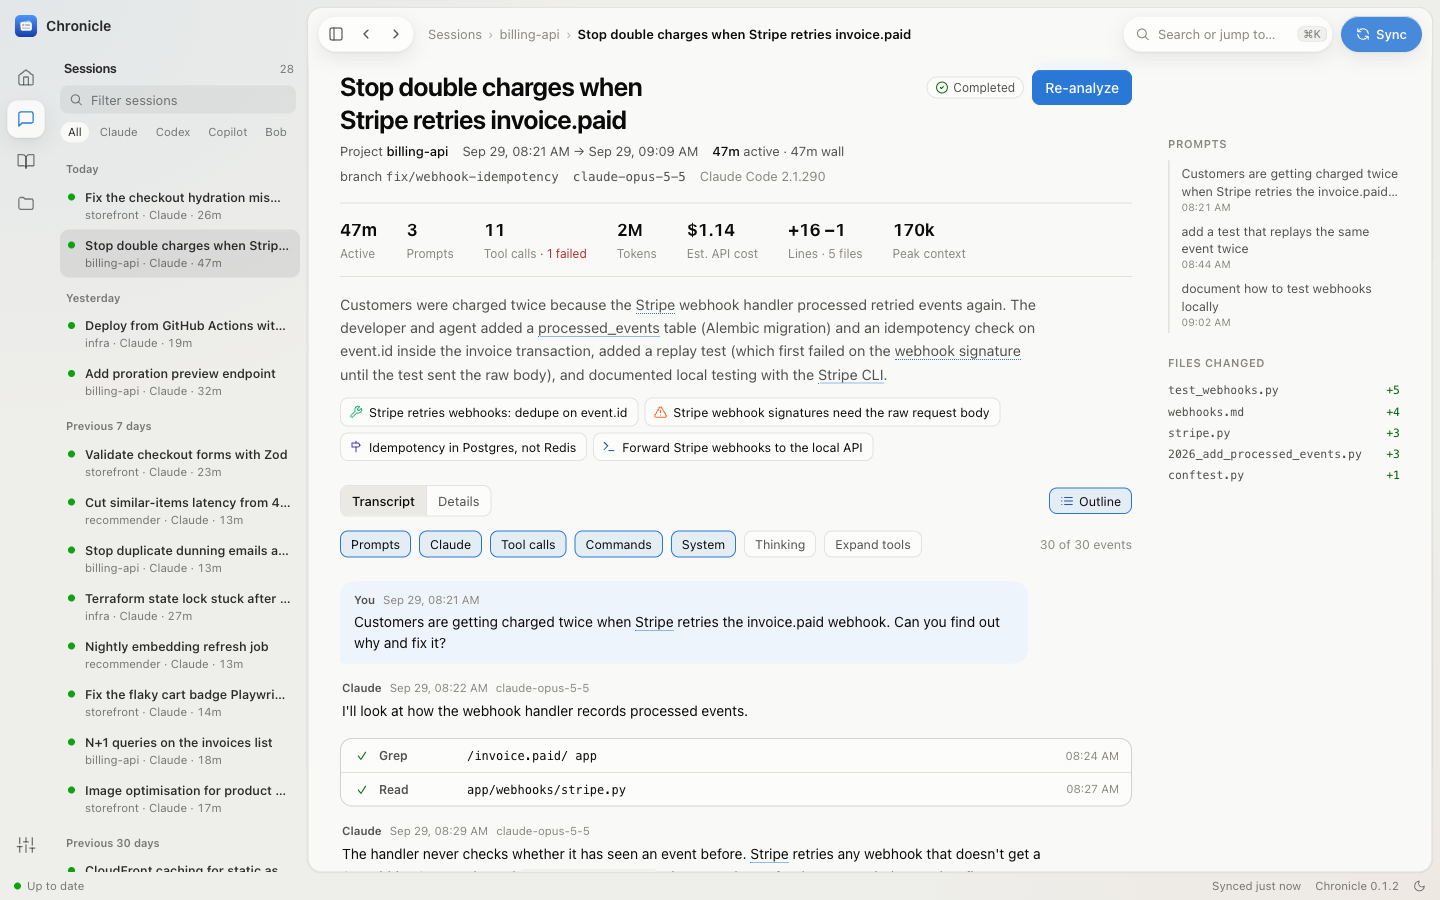
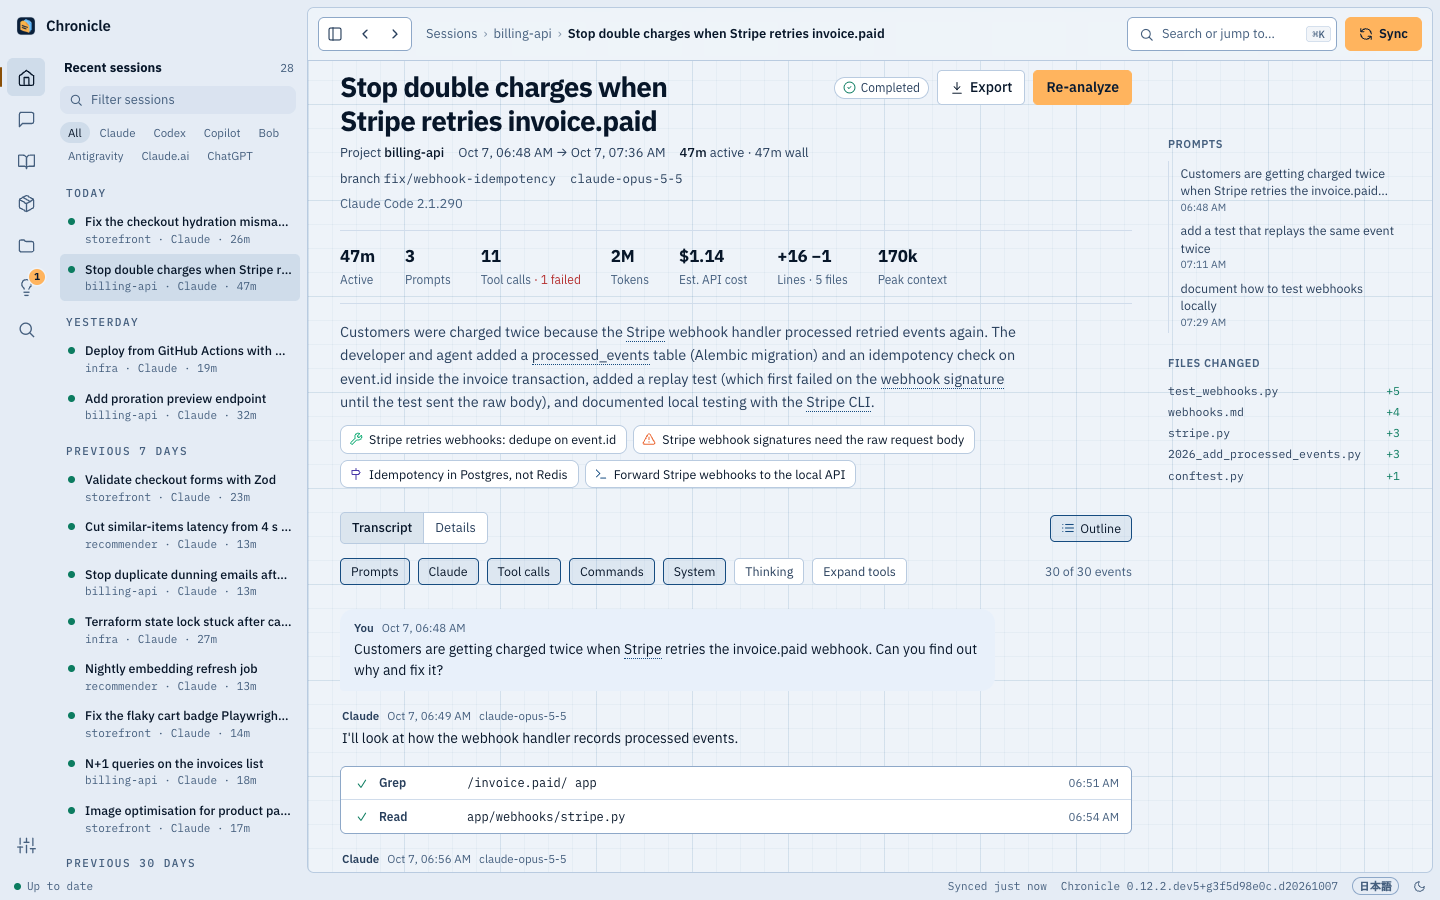
Blueprint UI: validated chart blue, Plex in the Japanese UI, new screenshots
The dark theme's first chart series is #4396e2: #7cc7ff failed the palette
validator's lightness band. Latin text in the Japanese UI uses Plex too. The
docs screenshots are retaken from the demo data in the new style.

diff --git a/src/chronicle/web/app.css b/src/chronicle/web/app.css
@@ -108,7 +108,7 @@
     --user-bubble: #12365f;
     --code-bg: #0a2140;
     --shadow: none;
-    --series-1: #7cc7ff; --series-2: #d95926; --series-3: #199e70; --series-4: #c98500;
+    --series-1: #4396e2; --series-2: #d95926; --series-3: #199e70; --series-4: #c98500;
     --series-5: #d55181; --series-6: #008300; --series-7: #9085e9; --series-8: #e66767;
     --gold: #ffb45e;
     --paper-grid: rgba(93, 134, 182, 0.13);
@@ -152,7 +152,7 @@
   --user-bubble: #12365f;
   --code-bg: #0a2140;
   --shadow: none;
-  --series-1: #7cc7ff; --series-2: #d95926; --series-3: #199e70; --series-4: #c98500;
+  --series-1: #4396e2; --series-2: #d95926; --series-3: #199e70; --series-4: #c98500;
   --series-5: #d55181; --series-6: #008300; --series-7: #9085e9; --series-8: #e66767;
   --gold: #ffb45e;
   --paper-grid: rgba(93, 134, 182, 0.13);
@@ -1699,8 +1699,9 @@ details.menu .menu-list span { color: var(--muted); font-size: 12px; }
 .sg-examples.one-line li { -webkit-line-clamp: 1; }
 .sg-card > .link-btn { justify-self: start; padding-left: 0; }
 
-/* Japanese UI (i18n.js sets <html lang>): fonts with Japanese glyphs first, and line breaks that keep phrases whole */
-:root:lang(ja) { --sans: system-ui, -apple-system, "Hiragino Sans", "Hiragino Kaku Gothic ProN", "Yu Gothic UI", Meiryo, "Segoe UI", sans-serif; }
+/* Japanese UI (i18n.js sets <html lang>): Plex for Latin text as on the site, Japanese glyphs from the system's
+   Japanese fonts, and line breaks that keep phrases whole */
+:root:lang(ja) { --sans: "IBM Plex Sans", "Hiragino Sans", "Hiragino Kaku Gothic ProN", "Yu Gothic UI", Meiryo, system-ui, sans-serif; }
 :lang(ja) body { line-break: strict; word-break: auto-phrase; }
 :lang(ja) .subhead { letter-spacing: 0.02em; }
 /* the language switch beside the theme toggle: a short outlined label (日本語 / EN) */

diff --git a/CHANGELOG.md b/CHANGELOG.md
@@ -1,5 +1,15 @@
 # Changelog
 
+## Unreleased
+
+- **The dashboard in the Chronicle blueprint style:** the app now looks like
+  [chronicle.chatixia.net](https://chronicle.chatixia.net/). The dark theme is navy blueprint paper with a faint grid,
+  the light theme the same drawing as a whiteprint; type is IBM Plex Sans and Plex Mono, with small mono capitals for
+  labels. Gold marks what to press (Sync, Approve) and the current section, teal what is done, blue the links and the
+  data. Panels are flat with thin rules instead of glass, in the browser and in the macOS app, so *Reduce transparency*
+  is gone from **Settings › Appearance**. The fonts ship with Chronicle (Latin subsets, SIL Open Font License), so the
+  dashboard never calls a font service; Japanese text uses the system's Hiragino.
+
 ## 0.12.1 (2026-10-07)
 
 - **IBM Bob analyzes sessions too:** pick **IBM Bob** in **Status › Analysis** (or `analysis.backend = "bob"`) and add a
@@ -21,13 +31,6 @@
 
 ## 0.12.0 (2026-10-06)
 
-- **The dashboard in the Chronicle blueprint style:** the app now looks like
-  [chronicle.chatixia.net](https://chronicle.chatixia.net/). The dark theme is navy blueprint paper with a faint grid,
-  the light theme the same drawing as a whiteprint; type is IBM Plex Sans and Plex Mono, with small mono capitals for
-  labels. Gold marks what to press (Sync, Approve) and the current section, teal what is done, blue the links and the
-  data. Panels are flat with thin rules instead of glass, in the browser and in the macOS app, so *Reduce transparency*
-  is gone from **Settings › Appearance**. The fonts ship with Chronicle (Latin subsets, SIL Open Font License), so the
-  dashboard never calls a font service; Japanese text uses the system's Hiragino.
 - **Analyze with a model provider's API:** besides Claude Code and Codex, sessions can be analyzed through the
   Anthropic API, Claude in Amazon Bedrock (a Bedrock API key, or your AWS sign-in with SigV4), the OpenAI API, Azure
   OpenAI (an API key, or Microsoft Entra ID through `az login`), OpenRouter, any OpenAI-compatible server (LM Studio,
